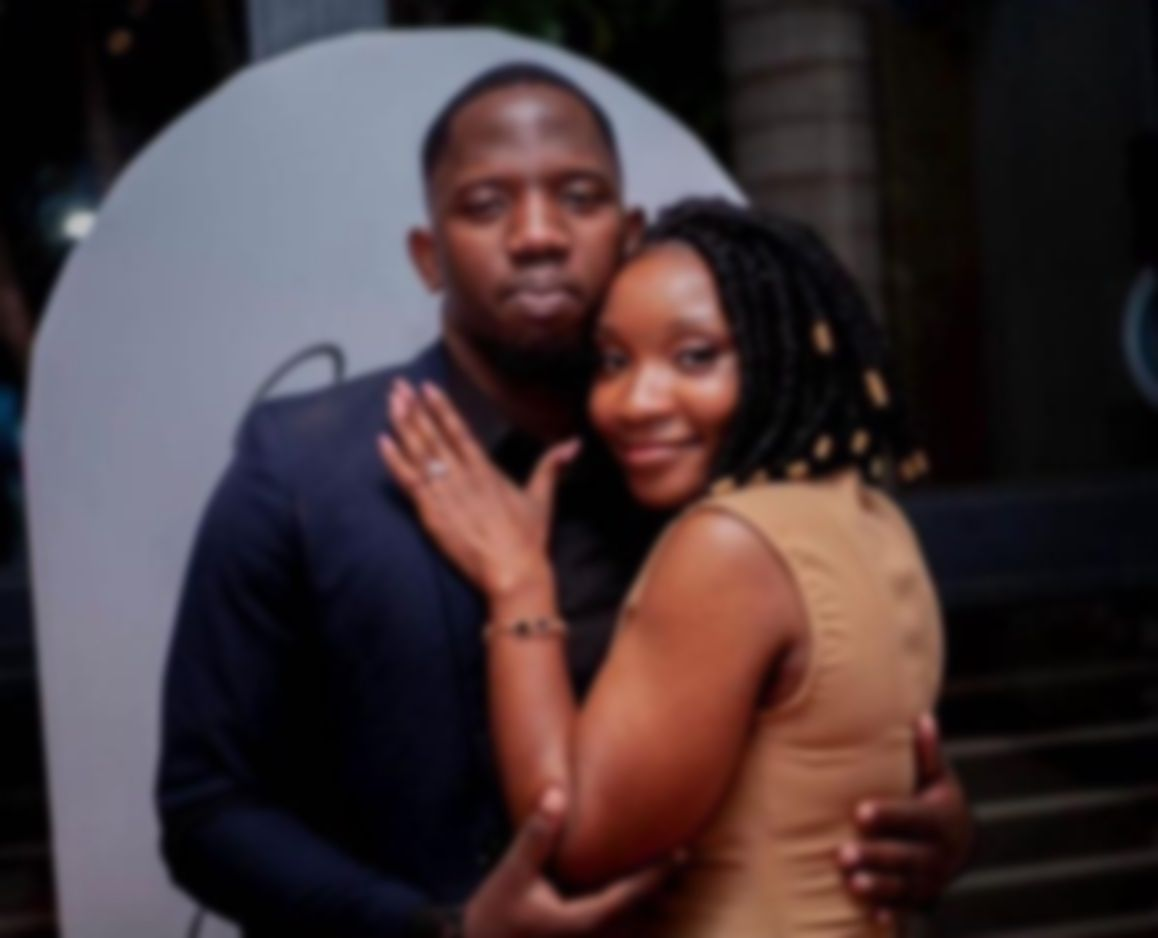
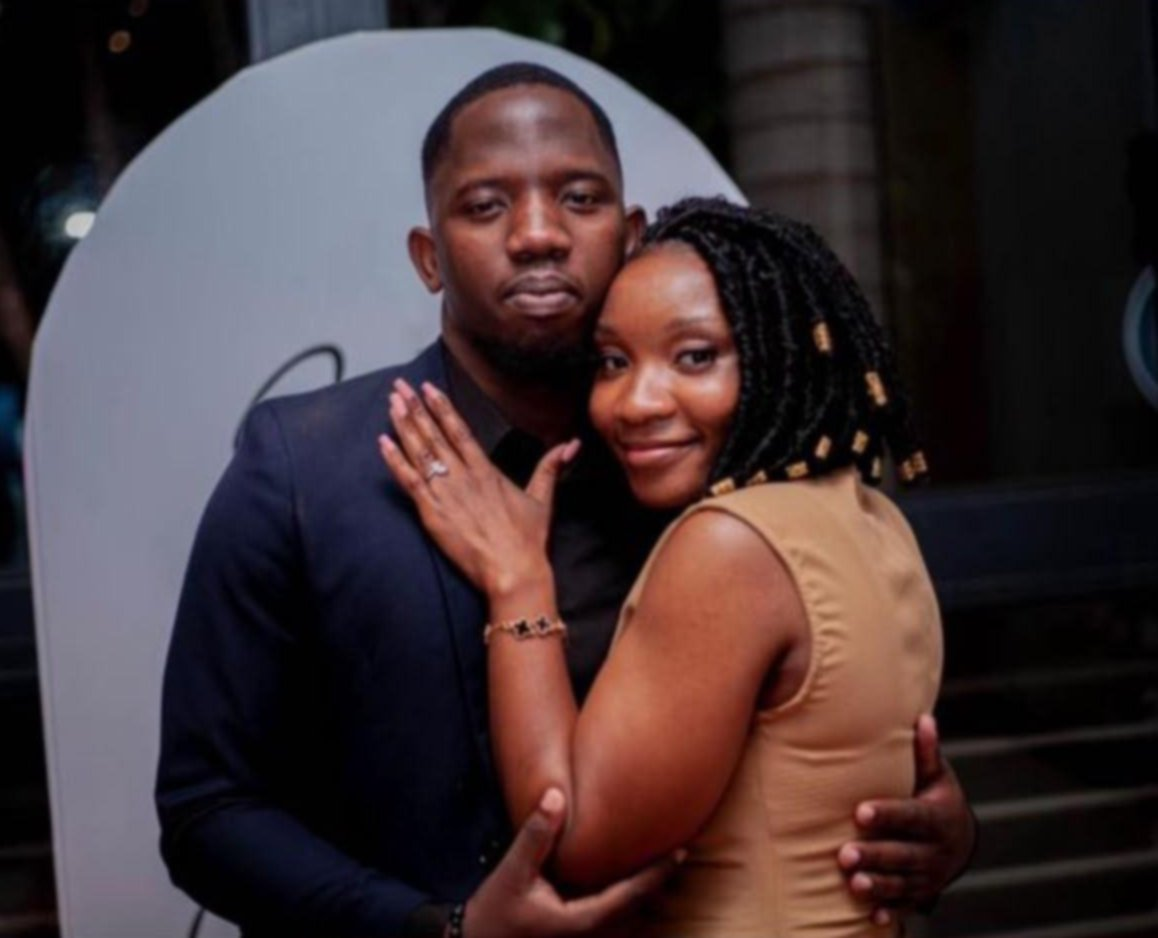
Sharper background photo and bolder, shadowed text over it

diff --git a/app/page.tsx b/app/page.tsx
@@ -17,8 +17,8 @@ import {
 function SectionTitle({ children }: { children: React.ReactNode }) {
   return (
     <div className="mb-8 text-center">
-      <Sprig className="mx-auto mb-4 h-4 w-20 text-mauve" />
-      <h2 className="font-serif text-4xl text-paper sm:text-5xl">{children}</h2>
+      <Sprig className="mx-auto mb-4 h-4 w-20 text-mauve-light" />
+      <h2 className="text-glow font-serif text-4xl font-medium text-paper sm:text-5xl">{children}</h2>
     </div>
   );
 }
@@ -26,44 +26,45 @@ function SectionTitle({ children }: { children: React.ReactNode }) {
 export default function Home() {
   return (
     <main className="relative isolate min-h-screen">
-      {/* Full-page photo background: fixed behind everything, slowly drifting. Pre-blurred file. */}
+      {/* Full-page photo background: fixed behind everything, slowly drifting. Lightly pre-blurred file,
+          served at full size because it is scaled to cover the screen height on phones. */}
       <div aria-hidden="true" className="fixed inset-0 -z-10 overflow-hidden bg-ink">
         <Image
           src="/couple-blur.jpg"
           alt=""
           fill
           priority
-          sizes="100vw"
+          unoptimized
           className="animate-drift object-cover object-[50%_15%] motion-reduce:animate-none"
         />
-        <div className="absolute inset-0 bg-ink/60" />
+        <div className="absolute inset-0 bg-ink/40" />
       </div>
 
       {/* Hero */}
-      <section className="flex min-h-[85vh] flex-col items-center justify-center px-6 py-20 text-center">
-        <LeafArch className="h-20 w-40 text-mauve sm:h-24 sm:w-48" />
-        <h1 className="mt-6 font-serif text-4xl font-normal leading-[0.95] text-paper min-[360px]:text-5xl sm:text-7xl lg:text-8xl">
+      <section className="text-glow flex min-h-[85vh] flex-col items-center justify-center px-6 py-20 text-center">
+        <LeafArch className="h-20 w-40 text-mauve-light sm:h-24 sm:w-48" />
+        <h1 className="mt-6 font-serif text-4xl font-medium leading-[0.95] text-paper min-[360px]:text-5xl sm:text-7xl lg:text-8xl">
           <span className="block whitespace-nowrap">
             {COUPLE.first} {COUPLE.firstSurname}
           </span>
-          <span className="my-3 block text-3xl italic text-mauve sm:text-4xl">&amp;</span>
+          <span className="my-3 block text-3xl italic text-mauve-light sm:text-4xl">&amp;</span>
           <span className="block whitespace-nowrap">
             {COUPLE.second} {COUPLE.secondSurname}
           </span>
         </h1>
-        <p className="mt-8 max-w-md font-serif text-xl italic leading-relaxed text-paper/90 sm:text-2xl">
+        <p className="mt-8 max-w-md font-serif text-xl font-medium italic leading-relaxed text-paper sm:text-2xl">
           Invite you to share in the joy of their wedding day celebration as they begin this beautiful
           chapter together.
         </p>
-        <p className="mt-8 text-xs uppercase tracking-[0.3em] text-paper/85 sm:text-sm">
+        <p className="mt-8 text-xs font-semibold uppercase tracking-[0.3em] text-paper sm:text-sm">
           {WEDDING_DATE_LABEL} · {CITY}
         </p>
-        <p className="mt-6 max-w-sm text-sm leading-relaxed text-paper/80">
+        <p className="mt-6 max-w-sm text-sm leading-relaxed text-paper sm:text-base">
           This special occasion is reserved for adults only, and the couple kindly request your understanding.
         </p>
         <a
           href="#rsvp"
-          className="mt-10 inline-block rounded-full bg-paper px-9 py-3 text-sm uppercase tracking-[0.25em] text-plum transition hover:-translate-y-0.5 hover:bg-mauve-light"
+          className="mt-10 inline-block rounded-full bg-paper px-9 py-3 text-sm font-semibold uppercase shadow-lg [text-shadow:none] tracking-[0.25em] text-plum transition hover:-translate-y-0.5 hover:bg-mauve-light"
         >
           RSVP
         </a>
@@ -121,7 +122,7 @@ export default function Home() {
         </div>
       </section>
 
-      <footer className="px-4 pb-12 text-center font-serif text-lg italic text-paper/85">
+      <footer className="text-glow px-4 pb-12 text-center font-serif text-lg font-medium italic text-paper">
         {COUPLE_FULL} · {WEDDING_DATE_NUMERIC}
       </footer>
     </main>

diff --git a/app/components/Countdown.tsx b/app/components/Countdown.tsx
@@ -21,7 +21,7 @@ export default function Countdown() {
   if (!left) return <div className="h-[8.25rem]" aria-hidden />;
 
   if (left.done) {
-    return <p className="flex h-[8.25rem] items-center justify-center font-serif text-4xl italic text-paper">Just married!</p>;
+    return <p className="flex h-[8.25rem] items-center justify-center font-serif text-4xl italic text-paper text-glow">Just married!</p>;
   }
 
   const units = [
@@ -32,7 +32,7 @@ export default function Countdown() {
 
   return (
     <div className="h-[8.25rem]">
-      <p className="mb-5 text-center text-xs uppercase tracking-[0.3em] text-mauve-light">Counting down</p>
+      <p className="mb-5 text-center text-glow text-xs font-semibold uppercase tracking-[0.3em] text-paper">Counting down</p>
       <div className="mx-auto flex max-w-sm justify-center gap-2 sm:gap-6" role="timer" aria-label="Time until the wedding">
         {units.map((u) => (
           // w-20 on small phones: three w-24 boxes don't fit a 320px screen.

diff --git a/app/globals.css b/app/globals.css
@@ -9,3 +9,8 @@ html {
 ::selection {
   background: #e6dad8;
 }
+
+/* Soft dark halo so light text stays legible over the background photo. */
+.text-glow {
+  text-shadow: 0 1px 2px rgb(39 20 44 / 0.7), 0 2px 16px rgb(39 20 44 / 0.6);
+}
